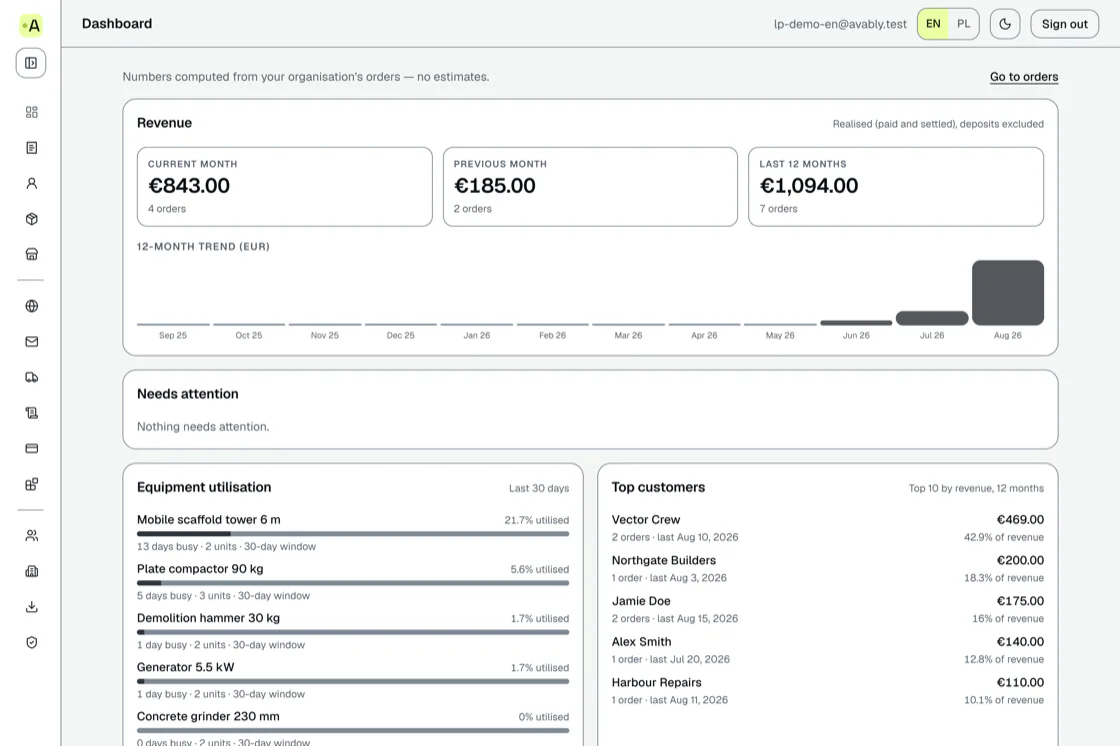
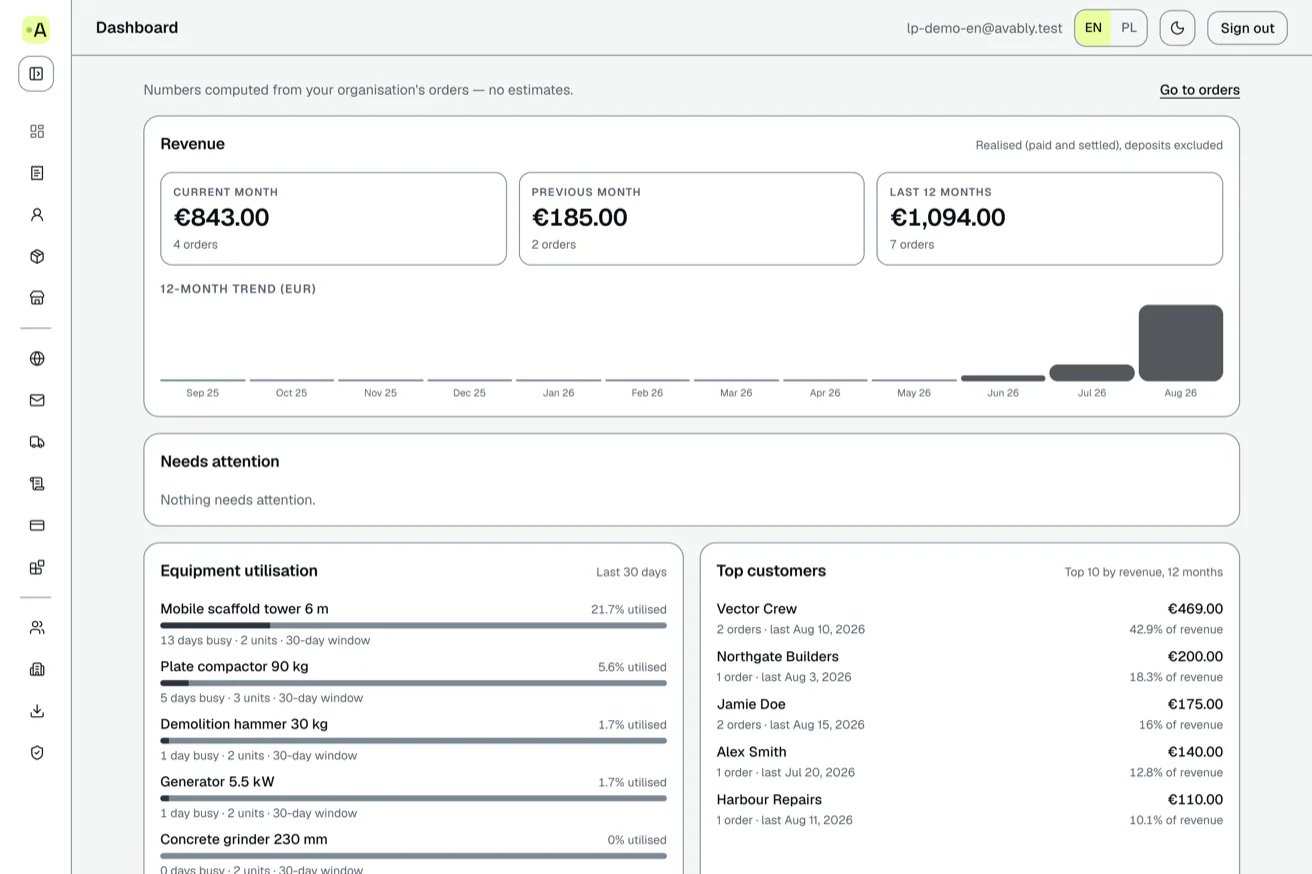
fix(a2): zrzuty interfejsu w prawdziwej gestosci 2x, nie 1,7x
Rozmiary plikow byly dobrane z atrybutu sizes szablonu, a nie z POMIARU:
zrzuty renderowaly sie w 1,69-1,71x gestosci, czyli ponizej retiny, ktora
wlasciciel ma na biurku. Szerokosci sa teraz dwukrotnoscia zmierzonej
szerokosci renderu (zakladki 764 -> 1528, trzy kroki 453 -> 906, blok CTA
656 -> 1312), a atrybuty width/height odpowiadaja plikom co do piksela.

Zakladki byly przy okazji PRZEwymiarowane, wiec komplet zeszczuplal
z 610 kB do 575 kB przy WYZSZEJ jakosci.

diff --git a/apps/storefront/marketing/home.html b/apps/storefront/marketing/home.html
@@ -447,19 +447,19 @@
             <!-- A2/delta wizualna: abstrakcyjne tło + atrapa wykresu „Company Growth"
                  z szablonu ustępują ZRZUTOWI działającego panelu. Zrzut wchodzi
                  jako obraz, nie jako odtworzony w HTML interfejs. -->
-            <div class="tab-accordion-image"><img src="{{shots.kalendarz}}" alt="{{shots.kalendarzAlt}}" loading="lazy" width="1808" height="904" class="zrzut-ui zrzut-ui-2-1"></div>
+            <div class="tab-accordion-image"><img src="{{shots.kalendarz}}" alt="{{shots.kalendarzAlt}}" loading="lazy" width="1528" height="764" class="zrzut-ui zrzut-ui-2-1"></div>
           </div>
           <div data-w-tab="Tab 2" class="tab-pane-features w-tab-pane">
-            <div class="tab-accordion-image"><img src="{{shots.kaucje}}" alt="{{shots.kaucjeAlt}}" loading="lazy" width="1808" height="904" class="zrzut-ui zrzut-ui-2-1"></div>
+            <div class="tab-accordion-image"><img src="{{shots.kaucje}}" alt="{{shots.kaucjeAlt}}" loading="lazy" width="1528" height="764" class="zrzut-ui zrzut-ui-2-1"></div>
           </div>
           <div data-w-tab="Tab 3" class="tab-pane-features w-tab-pane">
-            <div class="tab-accordion-image"><img src="{{shots.kurier}}" alt="{{shots.kurierAlt}}" loading="lazy" width="1808" height="904" class="zrzut-ui zrzut-ui-2-1"></div>
+            <div class="tab-accordion-image"><img src="{{shots.kurier}}" alt="{{shots.kurierAlt}}" loading="lazy" width="1528" height="764" class="zrzut-ui zrzut-ui-2-1"></div>
           </div>
           <div data-w-tab="Tab 4" class="tab-pane-features w-tab-pane">
-            <div class="tab-accordion-image"><img src="{{shots.kreator}}" alt="{{shots.kreatorAlt}}" loading="lazy" width="1808" height="904" class="zrzut-ui zrzut-ui-2-1"></div>
+            <div class="tab-accordion-image"><img src="{{shots.kreator}}" alt="{{shots.kreatorAlt}}" loading="lazy" width="1528" height="764" class="zrzut-ui zrzut-ui-2-1"></div>
           </div>
           <div data-w-tab="Tab 5" class="tab-pane-features w-tab-pane">
-            <div class="tab-accordion-image"><img src="{{shots.koszyk}}" alt="{{shots.koszykAlt}}" loading="lazy" width="1808" height="904" class="zrzut-ui zrzut-ui-2-1"></div>
+            <div class="tab-accordion-image"><img src="{{shots.koszyk}}" alt="{{shots.koszykAlt}}" loading="lazy" width="1528" height="764" class="zrzut-ui zrzut-ui-2-1"></div>
           </div>
         </div>
       </div>
@@ -585,7 +585,7 @@
              pulpitu. Zdanie obok mówi „Ty widzisz zamówienie w panelu" — więc
              pokazujemy panel, a nie metaforę. Efekt paralaksy zdjęty: przycina
              i przesuwa kadr, a zrzut interfejsu ma być czytany, nie animowany. -->
-        <div data-w-id="a2f3c014-d910-5b59-5e29-40325efecb6c" class="cta-block-image zrzut-ramka-3-2"><img src="{{shots.pulpit}}" alt="{{shots.pulpitAlt}}" loading="lazy" width="1120" height="747" class="zrzut-ui zrzut-ui-3-2">
+        <div data-w-id="a2f3c014-d910-5b59-5e29-40325efecb6c" class="cta-block-image zrzut-ramka-3-2"><img src="{{shots.pulpit}}" alt="{{shots.pulpitAlt}}" loading="lazy" width="1312" height="874" class="zrzut-ui zrzut-ui-3-2">
         </div>
         <div id="w-node-_9adf65f4-0df7-2c7c-5f0c-e24236dc31a0-5e82f706" class="cta-content-block">
           <div class="cta-block-top-tile">
@@ -643,21 +643,21 @@
           <!-- A2/delta wizualna: trzy abstrakcyjne bąbelki foliowe z szablonu
                ustępują trzem zrzutom z realnej ścieżki — dokładnie tych ekranów,
                które opisują trzy kroki obok. -->
-          <div class="momonetum-image zrzut-ramka-4-3"><img src="{{shots.rejestracja}}" alt="{{shots.rejestracjaAlt}}" loading="lazy" width="768" height="576" class="zrzut-ui zrzut-ui-4-3"></div>
+          <div class="momonetum-image zrzut-ramka-4-3"><img src="{{shots.rejestracja}}" alt="{{shots.rejestracjaAlt}}" loading="lazy" width="906" height="679" class="zrzut-ui zrzut-ui-4-3"></div>
           <div class="momentum-text-wrap">
             <div class="text-h7">{{momentum.card1Title}}</div>
             <div>{{momentum.card1Body}}</div>
           </div>
         </div>
         <div class="momentum-card">
-          <div class="momonetum-image zrzut-ramka-4-3"><img src="{{shots.katalog}}" alt="{{shots.katalogAlt}}" loading="lazy" width="768" height="576" class="zrzut-ui zrzut-ui-4-3"></div>
+          <div class="momonetum-image zrzut-ramka-4-3"><img src="{{shots.katalog}}" alt="{{shots.katalogAlt}}" loading="lazy" width="906" height="679" class="zrzut-ui zrzut-ui-4-3"></div>
           <div class="momentum-text-wrap">
             <div class="text-h7">{{momentum.card2Title}}</div>
             <div>{{momentum.card2Body}}</div>
           </div>
         </div>
         <div class="momentum-card">
-          <div class="momonetum-image zrzut-ramka-4-3"><img src="{{shots.zamowienia}}" alt="{{shots.zamowieniaAlt}}" loading="lazy" width="768" height="576" class="zrzut-ui zrzut-ui-4-3"></div>
+          <div class="momonetum-image zrzut-ramka-4-3"><img src="{{shots.zamowienia}}" alt="{{shots.zamowieniaAlt}}" loading="lazy" width="906" height="679" class="zrzut-ui zrzut-ui-4-3"></div>
           <div class="momentum-text-wrap">
             <div class="text-h7">{{momentum.card3Title}}</div>
             <div>{{momentum.card3Body}}</div>
